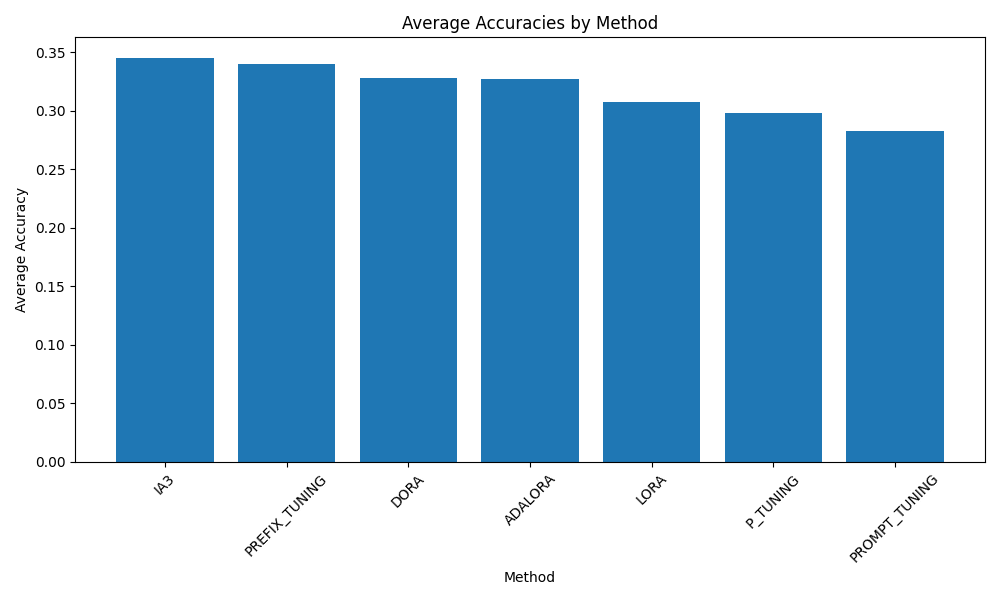
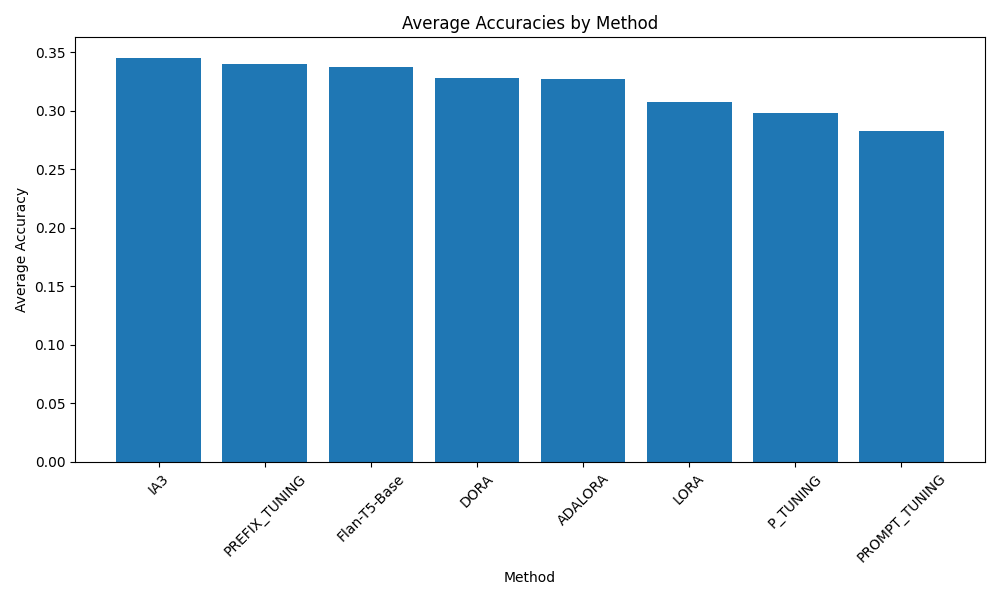
changed line to scatter plot, added base model

diff --git a/src/make_graphs.py b/src/make_graphs.py
@@ -26,6 +26,18 @@ subject_names = [
     'college_biology', 'college_physics', 'computer_security'
 ]
 
+flan_T5_base_values = [0.50, 0.195, 0.323, 0.250, 0.256, 0.240,
+                       0.250, 0.50, 0.429, 0.545, 0.417, 0.423,
+                       0.375, 0.192, 0.385, 0.258, 0.364, 0.370,
+                       0.50, 0.310, 0.286, 0.524, 0.214, 0.273,
+                       0.383, 0.406, 0.444, 0.50, 0.50, 0.50, 
+                       0.682, 0.435, 0.273, 0.385, 0.217, 0.409,
+                       0.455, 0.324, 0.282, 0.364, 0.316, 0.211,
+                       0.273, 0.485, 0.222, 0.379, 0.455, 0.250,
+                       0.273, 0.273, 0.60, 0.091, 0.235, 0.302,
+                       0.250, 0.727, 0.182]
+
+
 def clean_subject_accuracies():
     with open('src/pickle_contents.txt', 'r') as file:
         contents = file.read()
@@ -48,7 +60,8 @@ def clean_subject_accuracies():
     
 
 def make_save_histograms(method_accs):
-
+    method_accs['Flan-T5-Base'] = flan_T5_base_values
+    
     output_dir = "src/method_graphs"
     os.makedirs(output_dir, exist_ok=True)
 
@@ -64,17 +77,25 @@ def make_save_histograms(method_accs):
 
 def make_comparison__graph(method_accs):
 
+    method_accs['Flan-T5-Base'] = flan_T5_base_values
+
     plt.figure(figsize=(12, 8))
 
+    colors = ['blue', 'green', 'red', 'cyan', 'magenta', 'yellow', 'orange', 'black']
+    method_colors = dict(zip(method_accs.keys(), colors))
+
     for method, accuracies in method_accs.items():
-        plt.plot(accuracies, marker='o', label=method)
+        x_values = list(range(len(accuracies))) 
+        y_values = accuracies  
+        plt.scatter(x_values, y_values, label=method, color=method_colors[method], s=100)  
 
     plt.title('Accuracy Values Comparison Across Methods')
-    plt.xlabel('Subject Index')
+    plt.xlabel('Subject')
     plt.ylabel('Accuracy')
-    plt.xticks(range(len(accuracies)), subject_names[:len(accuracies)], rotation=90) 
+    plt.xticks(range(len(accuracies)), subject_names[:len(accuracies)], rotation=90)
     plt.legend()
-    plt.tight_layout() 
+
+    plt.tight_layout()  
     file_path = os.path.join(output_dir, 'method_accuracy_comparisons.png')
     plt.savefig(file_path)
 
@@ -82,7 +103,7 @@ def make_comparison__graph(method_accs):
 def average_accuracies(method_accs):
 
     avg_accuracies = {method: sum(values) / len(values) for method, values in method_accs.items()}
-
+    avg_accuracies['Flan-T5-Base'] = 0.337
     sorted_methods = sorted(avg_accuracies.items(), key=lambda x: x[1], reverse=True)
     methods, averages = zip(*sorted_methods)
 
